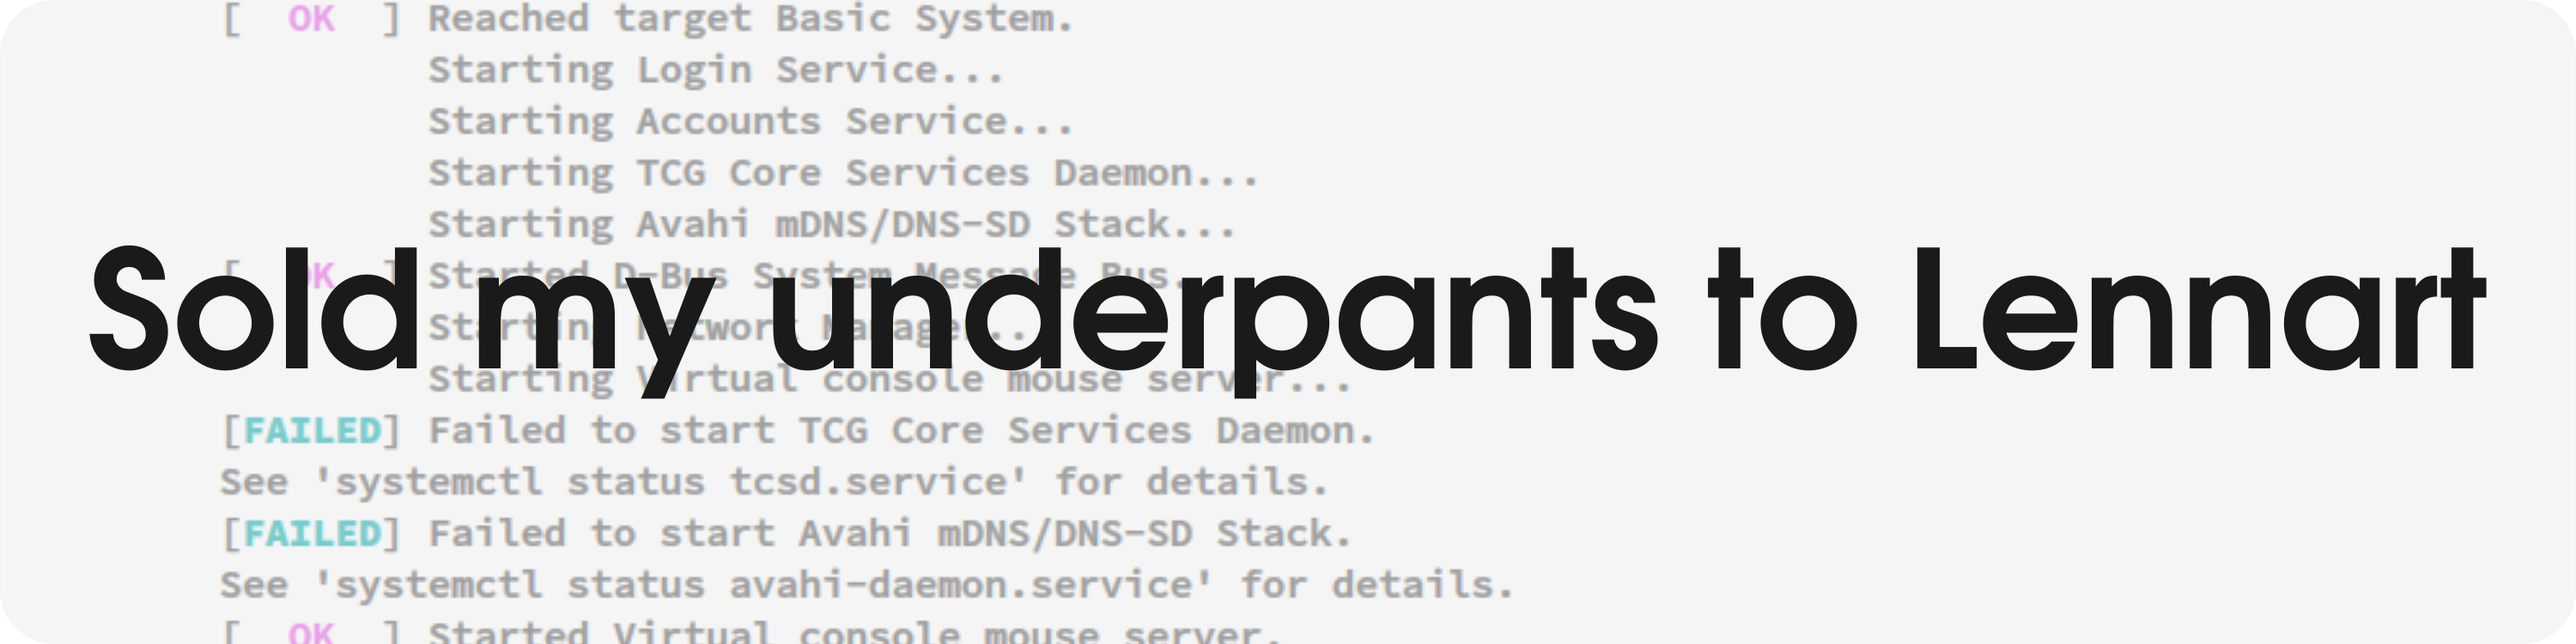
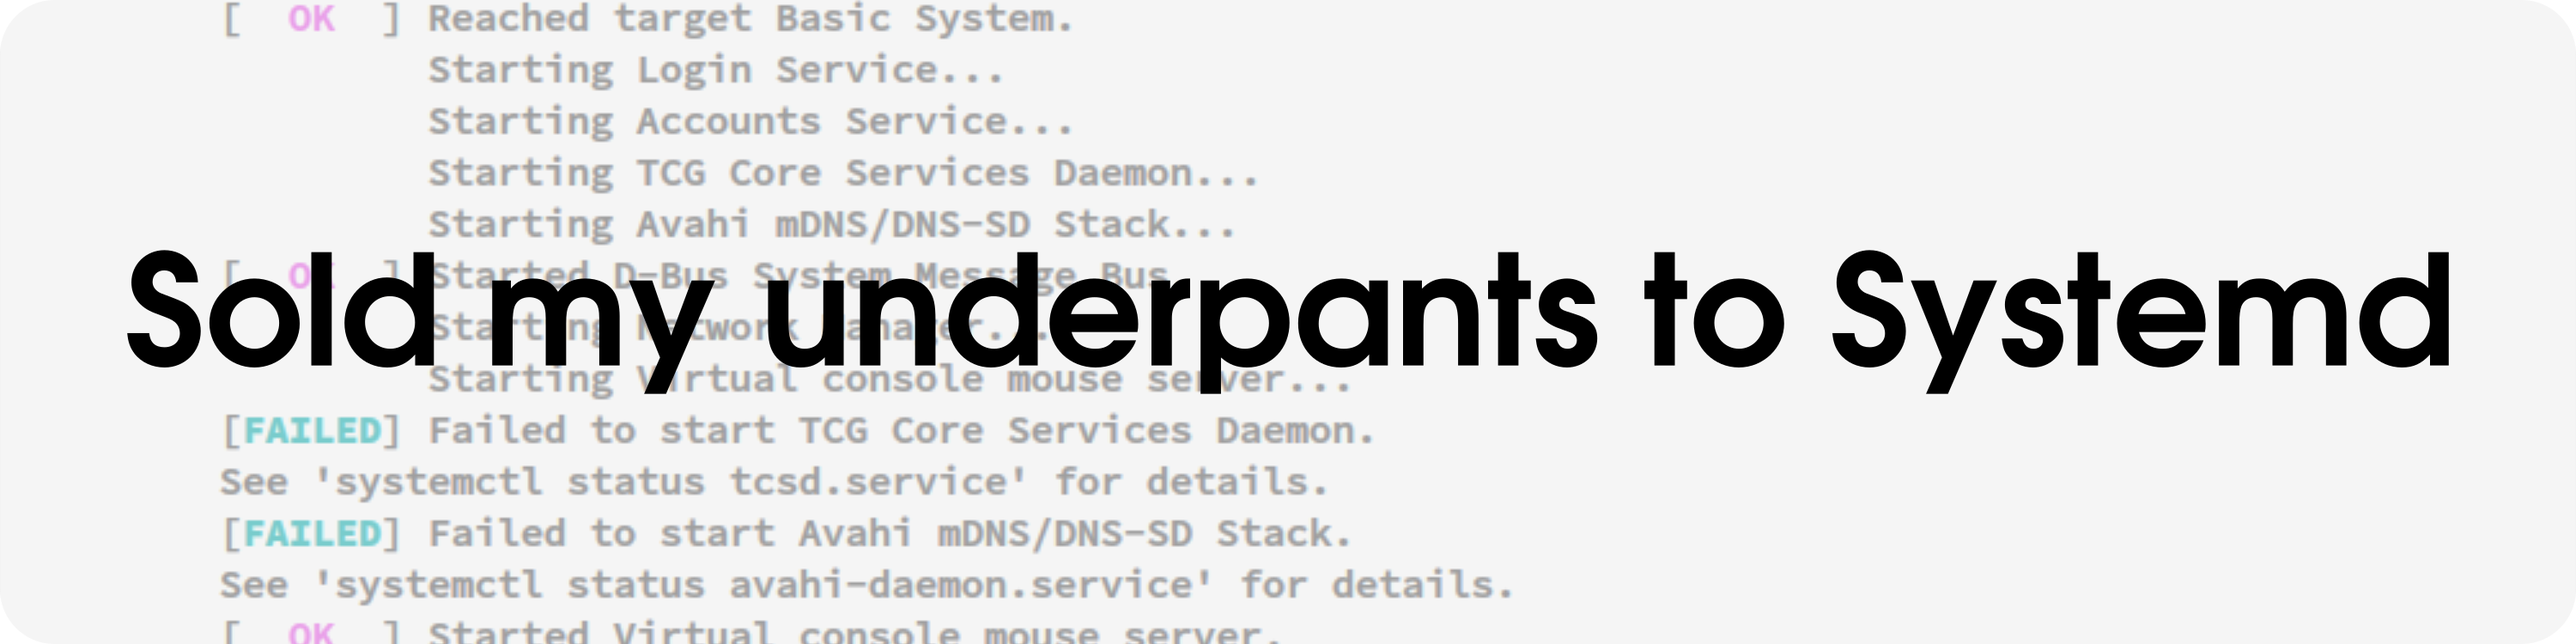
2016: we actually sold them to Systemd

Changed region(s): [[0.031, 0.368, 0.992, 0.6133]]

diff --git a/2016/stickers/jokes/sold-my-underpants/README.md b/2016/stickers/jokes/sold-my-underpants/README.md
@@ -1,4 +1,4 @@
-Sold my underpants to Lennart
+Sold my underpants to Systemd
 =============================
 
 Icenowy Zheng said...
